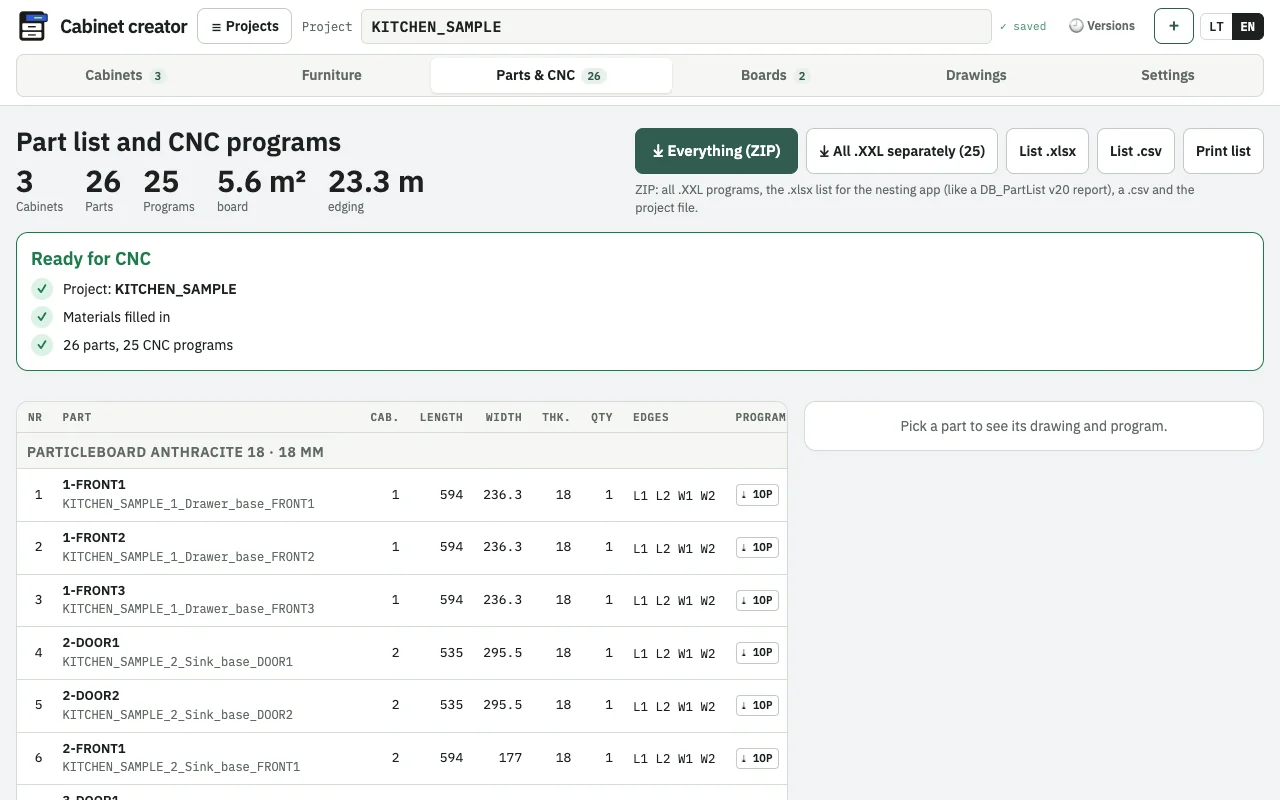
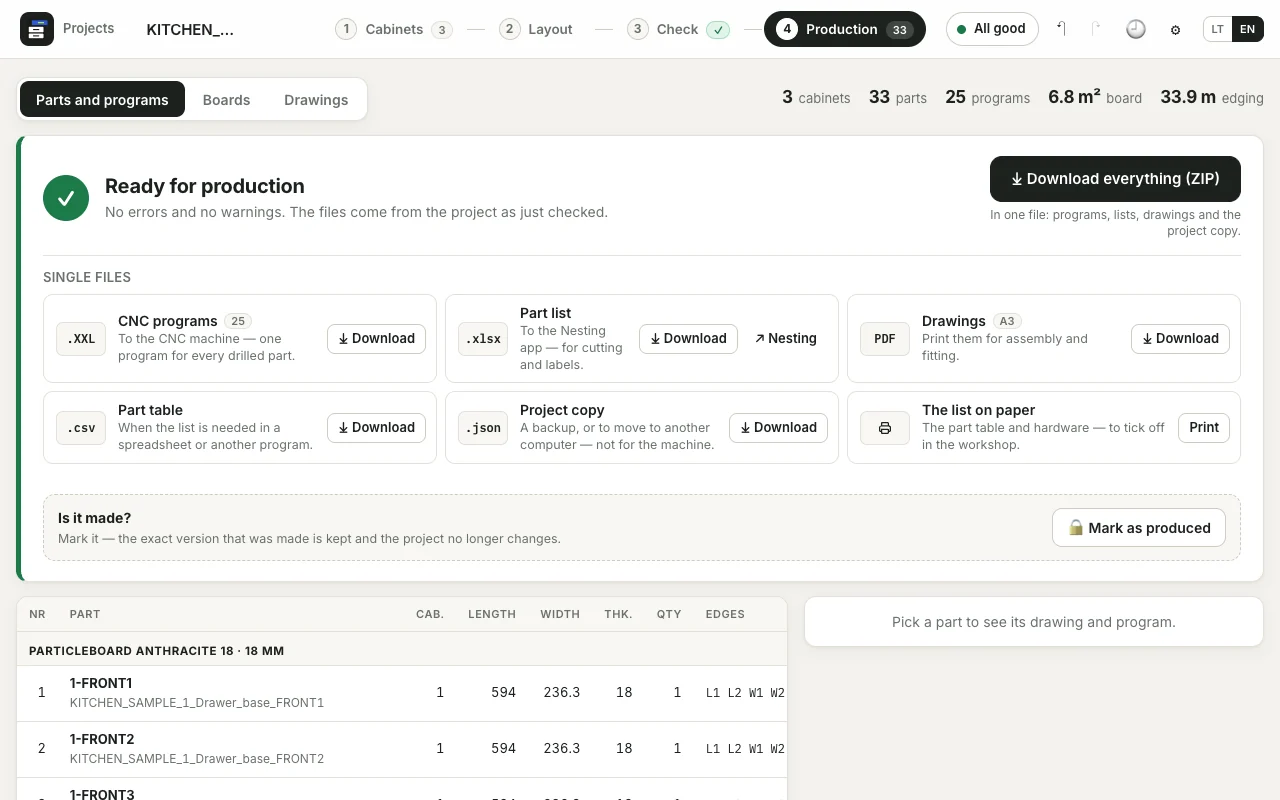
Cabinet Studio screenshots from the latest version of the app
Re-shot from the current app bundle (new Cabinets / Layout / Check /
Production layout): the cabinet editor with the assembled drawer base,
and the Production step showing 'Ready for production', the downloads
and the English part list. Joints and edges were confirmed through the
app's own review screens; worxmax mark placed at capture time.

diff --git a/assets/site.js b/assets/site.js
@@ -43,7 +43,7 @@ window.DBHUB = (function () {
       one: 'Turns cabinet sizes into a 3D model, a part list and CNC programs.', old: 'drawing each cabinet in CAD, then typing the cut list',
       was: 'Every cabinet drawn in CAD, then the parts typed out again for the saw and again for the CNC.',
       get: ['A 3D preview with joinery, sections and hardware', 'The part list with sizes and edge banding, ready for nesting', 'A drilling and routing program for every part'],
-      next: ['nesting', 'The part list goes straight to Nesting'], shots: [['cabinet-studio', '3D preview'], ['cabinet-studio-parts', 'Part list and CNC programs']] },
+      next: ['nesting', 'The part list goes straight to Nesting'], shots: [['cabinet-studio', '3D preview'], ['cabinet-studio-parts', 'Production: files and part list']] },
     { id: 'dxf', st: 'design', name: 'DXF Editor', ico: '<path d="M5 17V9a4 4 0 0 1 4-4h8"/><rect x="3" y="17" width="4" height="4"/><rect x="17" y="3" width="4" height="4"/>',
       one: 'Opens a DXF in the browser so you can fix sizes, holes and shapes without a CAD seat.', old: 'a CAD licence kept for small fixes',
       was: 'A customer drawing that is almost right, and a CAD licence kept only to nudge it.',

diff --git a/apps.html b/apps.html
@@ -67,7 +67,7 @@
 
 <nav class="looks" aria-label="Preview looks"><span>Look</span><a href="?look=a" data-look="a">A</a><a href="?look=b" data-look="b">B</a><a href="?look=c" data-look="c">C</a></nav>
 
-<script src="assets/site.js?v=31"></script>
+<script src="assets/site.js?v=32"></script>
 <script>
 (function () {
   'use strict';

diff --git a/privacy.html b/privacy.html
@@ -78,6 +78,6 @@
 
 <nav class="looks" aria-label="Preview looks"><span>Look</span><a href="?look=a" data-look="a">A</a><a href="?look=b" data-look="b">B</a><a href="?look=c" data-look="c">C</a></nav>
 
-<script src="assets/site.js?v=31"></script>
+<script src="assets/site.js?v=32"></script>
 </body>
 </html>

diff --git a/index.html b/index.html
@@ -296,7 +296,7 @@
 
 <div class="dock" id="dock"><a class="cta line" href="#lab">Try demo</a><a class="cta primary" href="#start">Free trial</a></div>
 
-<script src="assets/site.js?v=31"></script>
+<script src="assets/site.js?v=32"></script>
 <script>
 (function () {
   'use strict';
